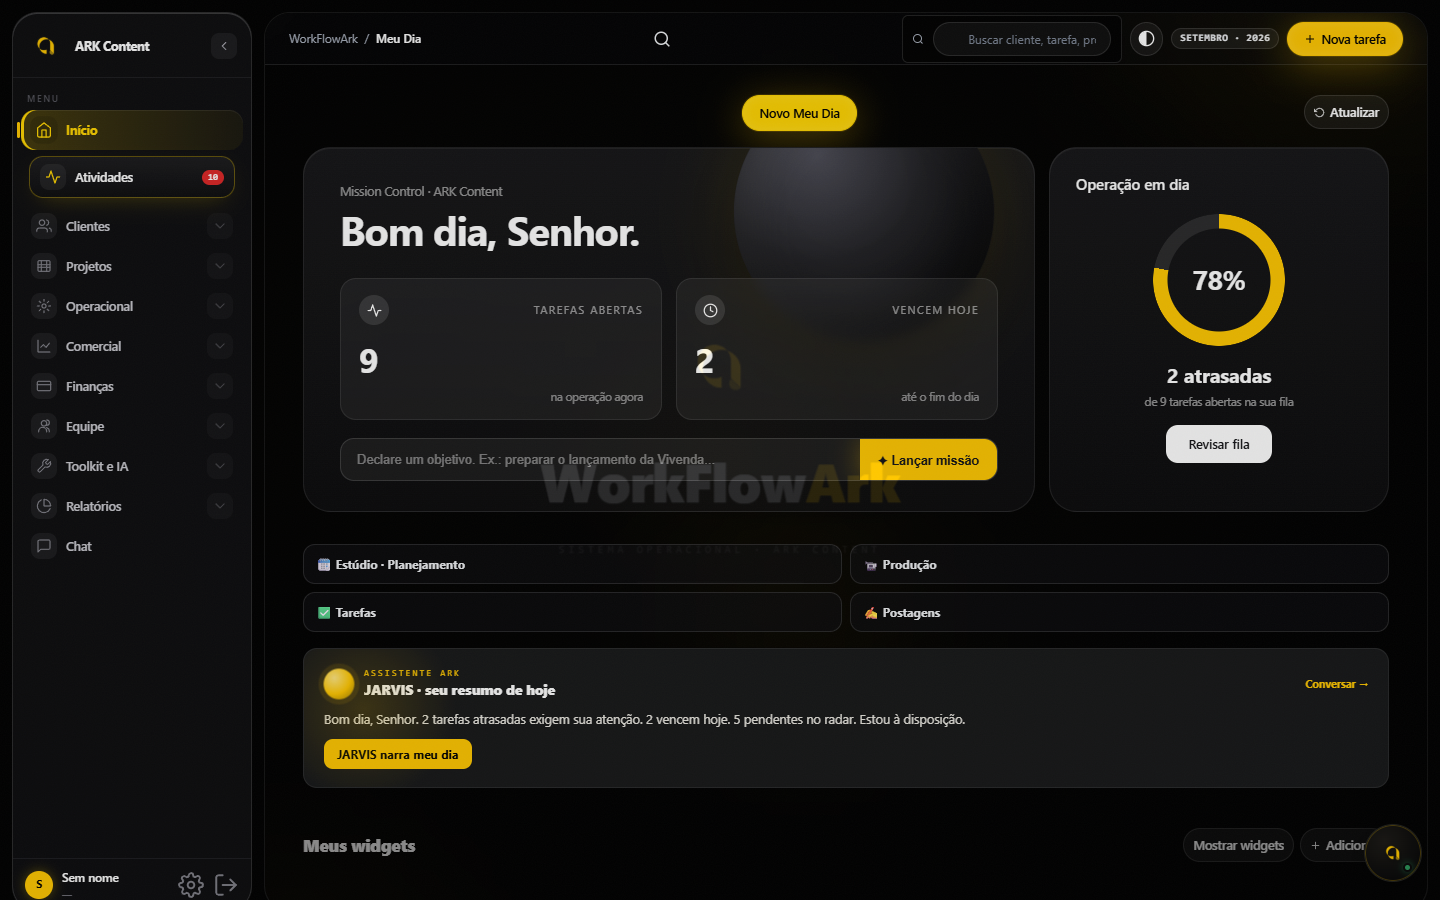
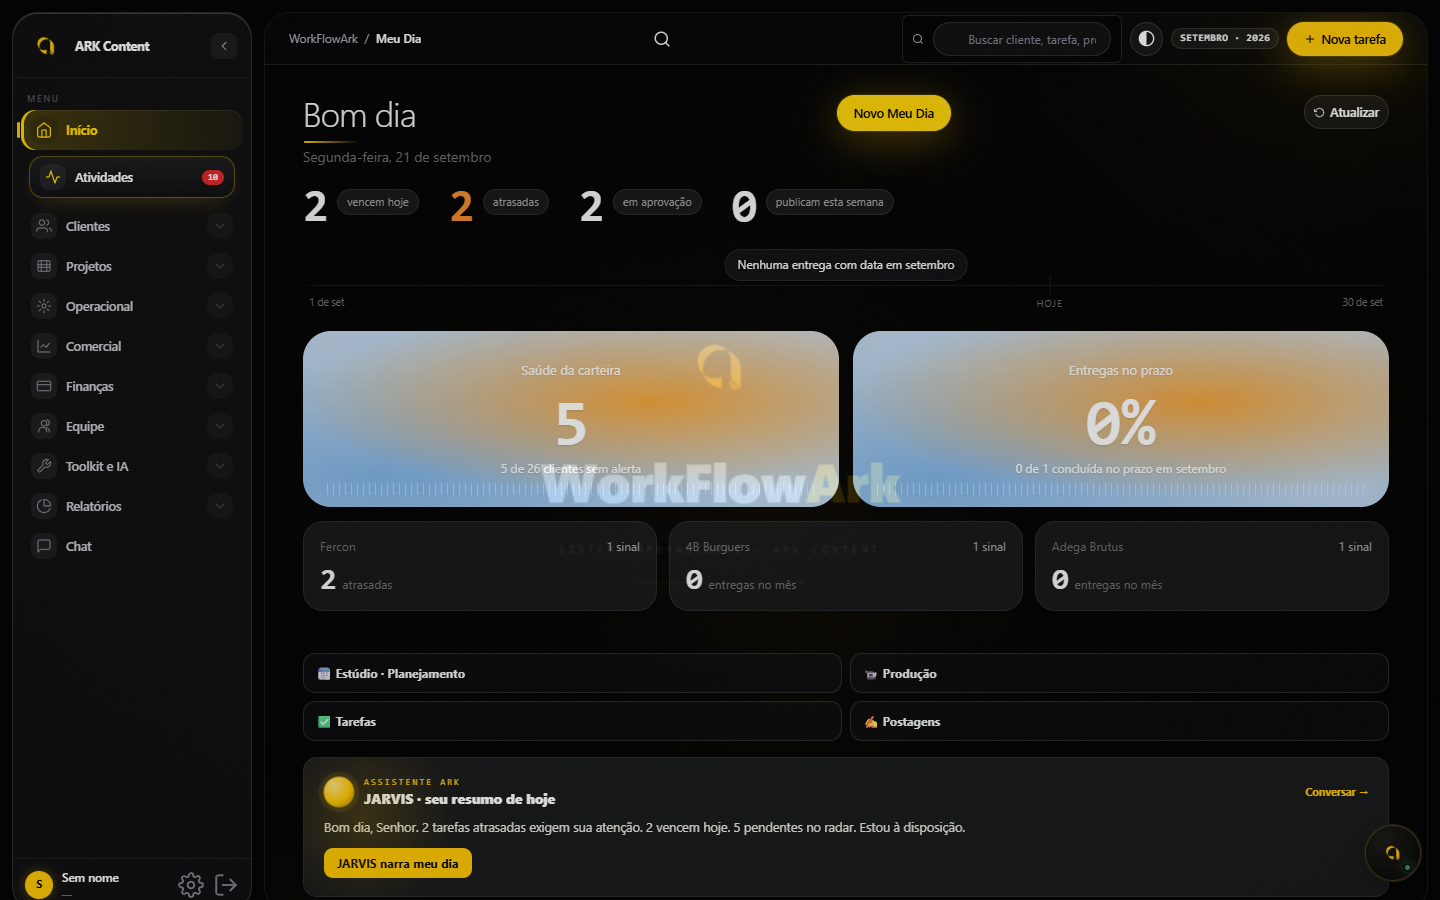
Next: Início no molde instrumento (KPIs em matriz de pontos, linha do mês, saúde da carteira, entregas no prazo, clientes em atenção), marcador NEXT 20260921j
Pele renomeada para 20260921b, fonte Doto só no /next, herói antigo escondido e saudação de volta. Prova em deploy/prova-next-inicio.mjs (claro e escuro, 1440 e 390); harness antigo e Plano de captações da outra sessão preservados.

diff --git a/public/workflowark-next-20260921b.js b/public/workflowark-next-20260921b.js
@@ -662,4 +662,127 @@
     };
     window.renderProducao = function () { orig(); try { plano(); } catch (e) { console.warn("nx producao", e); } };
   })();
+
+  /* Início no molde "instrumento, não formulário" (doc 07, lote 1, 21/09). Bloco #nx-inicio
+     depois do cabeçalho do Meu Dia: KPIs em matriz de pontos, linha do mês, dois cartões
+     aurora (saúde da carteira, entregas no prazo) e três clientes que pedem atenção. Os
+     números vêm de NX_CALC.inicio (workflowark-next-calc-<data>.js, testado em Node). Só
+     repinta quando os números mudam, como o md-kpis do legado. Nada é criado, só lido. */
+  (function () {
+    var orig = window.renderMeuDia;
+    if (typeof orig !== "function" || typeof NX_CALC === "undefined") return;
+    var SIG = "";
+    function editorialLista() {
+      try { var a = JSON.parse(localStorage.getItem("wfa-editorial") || "[]"); return Array.isArray(a) ? a : []; } catch (e) { return []; }
+    }
+    function nomeMembro() {
+      return (typeof WFA_MEMBER !== "undefined" && WFA_MEMBER && WFA_MEMBER.full_name) || "";
+    }
+    function nav(id) {
+      var el = document.querySelector('[data-nav="' + id + '"]');
+      if (el) el.click();
+      return !!el;
+    }
+    window.nxIrTarefas = function () { nav("tarefas"); };
+    window.nxIrClientes = function () { nav("lista-clientes") || nav("cliente"); };
+    window.nxIrCliente = function (id) {
+      if (!nav("cliente")) return;
+      setTimeout(function () {
+        var sel = document.getElementById("cli-area-sel");
+        if (sel) sel.value = id;
+        if (typeof cliAreaSelect === "function") cliAreaSelect(id);
+      }, 80);
+    };
+    function mesCurto(iso) {
+      return new Date(iso + "T12:00:00").toLocaleDateString("pt-BR", { day: "numeric", month: "short" }).replace(".", "");
+    }
+    function mesLongo(iso) {
+      return new Date(iso + "T12:00:00").toLocaleDateString("pt-BR", { month: "long" });
+    }
+    function kpi(n, rotulo, alerta, acao) {
+      return '<button type="button" class="nxi-kpi' + (alerta && n ? " alerta" : "") + '" onclick="' + acao + '"><span class="n">' + n + '</span><span class="l">' + rotulo + "</span></button>";
+    }
+    function linhaMes(r, H) {
+      var y = +H.slice(0, 4), m = +H.slice(5, 7);
+      var dim = new Date(y, m, 0).getDate();
+      var pos = function (d) { return ((+d.slice(8, 10) - 1) / (dim - 1)) * 100; };
+      var porDia = {};
+      r.linha.forEach(function (p) { (porDia[p.dia] = porDia[p.dia] || []).push(p); });
+      var pontos = Object.keys(porDia).map(function (d) {
+        var l = porDia[d];
+        var cor = l.some(function (p) { return p.cor === "alerta"; }) ? "alerta" : l.every(function (p) { return p.cor === "ok"; }) ? "ok" : l.some(function (p) { return p.cor === "andamento"; }) ? "andamento" : "planejado";
+        var t = l.map(function (p) { return p.titulo; }).join(" · ");
+        var id = (l.find(function (p) { return p.id; }) || {}).id;
+        return '<span class="d ' + cor + '" style="left:' + pos(d).toFixed(2) + '%" title="' + esc(brData(d) + ": " + t) + '"' + (id ? ' onclick="openTaskDetail(\'' + esc(id) + "')\"" : "") + "></span>";
+      }).join("");
+      var pub = r.linha.filter(function (p) { return p.cor === "ok"; }).length;
+      var flag = r.linha.length
+        ? r.linha.length + " entrega" + (r.linha.length === 1 ? "" : "s") + " em " + mesLongo(H) + " · " + pub + " publicada" + (pub === 1 ? "" : "s")
+        : "Nenhuma entrega com data em " + mesLongo(H);
+      return '<div class="nxi-tl"><div class="line"></div>' + pontos +
+        '<span class="hoje" style="left:' + pos(H).toFixed(2) + '%"></span>' +
+        '<span class="m1">' + mesCurto(H.slice(0, 8) + "01") + '</span><span class="m2">' + mesCurto(H.slice(0, 8) + pad(dim)) + "</span>" +
+        '<div class="flag">' + flag + "</div></div>";
+    }
+    function aurora(classe, titulo, numero, sub, acao) {
+      /* data-aura-keep em cada filho: o normalizador AURA escurece por elemento, não por subárvore */
+      return '<button type="button" class="nxi-aurora ' + classe + '" data-aura-keep' + (acao ? ' onclick="' + acao + '"' : "") + '><div class="t" data-aura-keep>' + titulo + '</div><div class="n" data-aura-keep>' + numero + '</div><div class="s" data-aura-keep>' + sub + '</div>' + (classe === "vazio" ? "" : '<div class="bars" data-aura-keep></div>') + "</button>";
+    }
+    function render() {
+      var pg = document.getElementById("page-dashboard");
+      if (!pg || typeof state === "undefined") return;
+      var box = document.getElementById("nx-inicio");
+      if (!box) {
+        box = document.createElement("div");
+        box.id = "nx-inicio";
+        box.className = "nxi-in";
+        var head = pg.querySelector(".page-head");
+        if (head) head.insertAdjacentElement("afterend", box);
+        else pg.insertAdjacentElement("afterbegin", box);
+      }
+      var H = typeof hojeSP === "function" ? hojeSP() : hoje();
+      var r = NX_CALC.inicio({
+        tarefas: state.tarefas || [],
+        clientes: typeof CLIENTES !== "undefined" ? CLIENTES : [],
+        editorial: editorialLista(),
+        hoje: H,
+        nome: nomeMembro(),
+      });
+      var sig = JSON.stringify([H, r.kpis, r.saude.verdes, r.saude.total, r.prazo, r.linha, r.atencao]);
+      if (sig === SIG) return;
+      SIG = sig;
+      var s = r.saude, p = r.prazo;
+      var html =
+        '<div class="nxi-kpis">' +
+        kpi(r.kpis.hoje, "vencem hoje", false, "nxIrTarefas()") +
+        kpi(r.kpis.atrasadas, r.kpis.atrasadas === 1 ? "atrasada" : "atrasadas", true, "nxIrTarefas()") +
+        kpi(r.kpis.aprovacao, "em aprovação", false, "nxIrTarefas()") +
+        kpi(r.kpis.publicamSemana, "publicam esta semana", false, "nxIrTarefas()") +
+        "</div>" +
+        linhaMes(r, H) +
+        '<div class="nxi-aur">' +
+        (s.total
+          ? aurora(s.verdes / s.total >= 0.7 ? "bom" : "atencao", "Saúde da carteira", s.verdes, s.verdes + " de " + s.total + " cliente" + (s.total === 1 ? "" : "s") + " sem alerta", "nxIrClientes()")
+          : aurora("vazio", "Saúde da carteira", "sem dados", "nenhum cliente ativo na carteira")) +
+        (p.pct === null
+          ? aurora("vazio", "Entregas no prazo", "sem dados", "nenhuma entrega concluída com prazo em " + mesLongo(H))
+          : aurora(p.pct >= 80 ? "bom" : "atencao", "Entregas no prazo", p.pct + "%", p.ok + " de " + p.total + " concluída" + (p.total === 1 ? "" : "s") + " no prazo em " + mesLongo(H), "nxIrTarefas()")) +
+        "</div>" +
+        '<div class="nxi-minis">' +
+        (r.atencao.length
+          ? r.atencao.map(function (c) {
+              var semEntrega = c.rotulo === "sem entrega no mês";
+              return '<button type="button" class="nxi-mini" onclick="nxIrCliente(\'' + esc(c.id) + '\')"><div class="l"><span>' + esc(c.nm) + "</span><i>" + c.sinais + " sinal" + (c.sinais === 1 ? "" : "is") + '</i></div><div class="n">' + (semEntrega ? "0" : c.n) + "<small>" + (semEntrega ? "entregas no mês" : esc(c.rotulo)) + "</small></div></button>";
+            }).join("")
+          : '<div class="nxi-mini tudo"><div class="l"><span>Carteira</span></div><div class="n">' + s.total + "<small>cliente" + (s.total === 1 ? "" : "s") + " sem alerta</small></div></div>") +
+        "</div>";
+      box.innerHTML = html;
+    }
+    window.renderMeuDia = function () {
+      orig.apply(this, arguments);
+      try { render(); } catch (e) { console.warn("nx inicio", e); }
+    };
+    setInterval(function () { try { render(); } catch (e) {} }, 60000);
+    try { render(); } catch (e) { console.warn("nx inicio", e); }
+  })();
 })();

diff --git a/public/workflowark-next-20260921b.css b/public/workflowark-next-20260921b.css
@@ -120,3 +120,60 @@ body.aura-light .nxp-bar{background:rgba(0,0,0,.08)}
 .nxp-geral{background:linear-gradient(180deg,#141416,#0a0a0b);border:1px solid rgba(255,255,255,.08);border-radius:14px;padding:12px 14px}
 body.aura-light .nxp-geral{background:#fff;border-color:rgba(0,0,0,.08)}
 .nxp-gl{display:flex;justify-content:space-between;font-size:12.5px;color:var(--mute);margin-bottom:8px}.nxp-gl b{color:var(--ink)}
+
+/* ---- Início no molde "instrumento, não formulário" (doc 07, lote 1, 21/09) ----
+   Tokens tirados das referências (painel claro Superpower / painel escuro de frota),
+   acento na cor da marca. O herói antigo (.aura-hero-row) sai só no /next. */
+body.next{--nxi-card:#141416;--nxi-ink:#F5F5F7;--nxi-ink2:#A1A1A6;--nxi-ink3:#6E6E73;--nxi-line:rgba(255,255,255,.08);--nxi-acc:#ffd400;--nxi-alert:#F08A2E;--nxi-ok:#3DDC84;--nxi-r:28px;--nxi-num:Doto,ui-monospace,"JetBrains Mono",monospace}
+body.next.aura-light{--nxi-card:#F4F4F5;--nxi-ink:#111114;--nxi-ink2:#5C5C62;--nxi-ink3:#8A8A8F;--nxi-line:rgba(0,0,0,.06)}
+body.next .aura-hero-row{display:none!important}
+/* a saudação volta (o legado a escondia porque o herói a repetia) */
+body.next.aura-dark #page-dashboard #md-greet,body.next.aura-light #page-dashboard #md-greet{display:block;font-weight:300;font-size:34px;letter-spacing:-.02em;color:var(--nxi-ink)}
+body.next.aura-dark #page-dashboard #md-sub,body.next.aura-light #page-dashboard #md-sub{display:block;color:var(--nxi-ink3)}
+#nx-inicio{margin:4px 0 26px;color:var(--nxi-ink)}
+.nxi-in{animation:nxiIn .45s cubic-bezier(.25,.1,.25,1) both}
+@keyframes nxiIn{from{opacity:0}to{opacity:1}}
+@media(prefers-reduced-motion:reduce){.nxi-in{animation:none}}
+/* KPIs: o número é o herói, rótulo pequeno em pílula */
+.nxi-kpis{display:flex;gap:30px;flex-wrap:wrap;margin:0 0 20px}
+.nxi-kpi{display:flex;align-items:flex-start;gap:8px;cursor:pointer;background:none;border:0;padding:0;color:var(--nxi-ink);font:inherit;text-align:left}
+.nxi-kpi .n{font-family:var(--nxi-num);font-weight:700;font-size:46px;line-height:1;letter-spacing:.02em;font-variant-numeric:tabular-nums}
+.nxi-kpi .l{font-size:11px;background:var(--nxi-card);border:1px solid var(--nxi-line);border-radius:999px;padding:4px 9px;color:var(--nxi-ink2);margin-top:6px;white-space:nowrap}
+.nxi-kpi.alerta .n{color:var(--nxi-alert)}
+.nxi-kpi:hover .l{color:var(--nxi-ink)}
+/* linha do mês: um ponto por entrega, marcador de hoje, etiqueta flutuante */
+.nxi-tl{position:relative;height:62px;margin:0 6px 20px}
+.nxi-tl .line{position:absolute;left:0;right:0;top:36px;height:1px;background:var(--nxi-line)}
+.nxi-tl .d{position:absolute;top:32px;width:9px;height:9px;border-radius:50%;transform:translateX(-50%);cursor:pointer}
+.nxi-tl .d.ok{background:var(--nxi-ok)}.nxi-tl .d.andamento{background:var(--nxi-acc)}.nxi-tl .d.planejado{background:var(--nxi-ink3)}.nxi-tl .d.alerta{background:var(--nxi-alert)}
+.nxi-tl .hoje{position:absolute;top:26px;width:1px;height:21px;background:var(--nxi-ink);transform:translateX(-50%)}
+.nxi-tl .hoje::after{content:"hoje";position:absolute;top:22px;left:50%;transform:translateX(-50%);font-size:9.5px;letter-spacing:.12em;text-transform:uppercase;color:var(--nxi-ink3)}
+.nxi-tl .m1,.nxi-tl .m2{position:absolute;top:46px;font-size:10.5px;color:var(--nxi-ink3)}.nxi-tl .m1{left:0}.nxi-tl .m2{right:0}
+.nxi-tl .flag{position:absolute;top:0;left:50%;transform:translateX(-50%);background:rgba(20,20,22,.72);backdrop-filter:blur(10px);-webkit-backdrop-filter:blur(10px);border:1px solid var(--nxi-line);border-radius:999px;padding:6px 12px;font-size:12px;color:var(--nxi-ink);white-space:nowrap;box-shadow:0 6px 24px rgba(0,0,0,.18)}
+body.next.aura-light .nxi-tl .flag{background:rgba(255,255,255,.78)}
+/* dois cartões aurora: só os dois números que importam */
+.nxi-aur{display:grid;grid-template-columns:1fr 1fr;gap:14px;margin-bottom:14px}
+.nxi-aurora{border-radius:var(--nxi-r);padding:22px;color:#fff;min-height:176px;position:relative;overflow:hidden;text-align:center;cursor:pointer;border:0;font:inherit;text-shadow:0 1px 2px rgba(0,0,0,.14);width:100%}
+.nxi-aurora.bom{background:radial-gradient(120% 90% at 30% 25%,#F2A33A 0%,transparent 55%),radial-gradient(120% 100% at 70% 90%,#3FBF5A 0%,#7dc98a 60%,transparent 100%),#8fd69b}
+.nxi-aurora.atencao{background:radial-gradient(110% 90% at 65% 40%,#F2A33A 0%,transparent 60%),radial-gradient(120% 110% at 15% 85%,#7FB3E6 0%,#b9d3ec 60%,transparent 100%),#c9d9ea}
+.nxi-aurora.vazio{background:var(--nxi-card);color:var(--nxi-ink3);border:1px solid var(--nxi-line);text-shadow:none;cursor:default}
+.nxi-aurora .t{font-size:13px;opacity:.94}
+.nxi-aurora .n{font-family:var(--nxi-num);font-weight:700;font-size:64px;line-height:1.1;margin:8px 0 2px}
+.nxi-aurora.vazio .n{font-family:inherit;font-weight:300;font-size:28px;margin:22px 0 6px}
+.nxi-aurora .s{font-size:12px;opacity:.94}
+.nxi-aurora .bars{position:absolute;left:24px;right:24px;bottom:12px;height:12px;background:repeating-linear-gradient(90deg,rgba(255,255,255,.55) 0 1px,transparent 1px 6px);opacity:.7}
+/* três clientes que pedem atenção */
+.nxi-minis{display:grid;grid-template-columns:repeat(3,1fr);gap:12px}
+.nxi-mini{background:var(--nxi-card);border:1px solid var(--nxi-line);border-radius:20px;padding:16px;cursor:pointer;text-align:left;color:var(--nxi-ink);font:inherit;min-height:88px;width:100%}
+.nxi-mini:hover{border-color:rgba(255,212,0,.5)}
+.nxi-mini .l{font-size:12px;color:var(--nxi-ink3);display:flex;justify-content:space-between;gap:8px}
+.nxi-mini .l i{font-style:normal;color:var(--nxi-ink2)}
+.nxi-mini .n{font-family:var(--nxi-num);font-weight:700;font-size:30px;margin-top:8px;line-height:1}
+.nxi-mini .n small{font-family:Inter,system-ui,sans-serif;font-weight:400;font-size:12px;color:var(--nxi-ink3);margin-left:6px}
+.nxi-mini.tudo{cursor:default;border-style:dashed}
+@media(max-width:900px){
+  .nxi-kpis{gap:18px 22px}.nxi-kpi .n{font-size:38px}
+  .nxi-aur{grid-template-columns:1fr}.nxi-aurora{min-height:150px}.nxi-aurora .n{font-size:54px}
+  .nxi-minis{grid-template-columns:1fr}
+  .nxi-tl .flag{font-size:11px;padding:5px 10px}
+}

diff --git a/public/workflowark-next.html b/public/workflowark-next.html
@@ -46,12 +46,12 @@
 <link rel="preconnect" href="https://fonts.googleapis.com">
 <link rel="preconnect" href="https://fonts.gstatic.com" crossorigin>
 <link rel="preconnect" href="https://cdn.jsdelivr.net">
-<link href="https://fonts.googleapis.com/css2?family=Inter:wght@400;500;600;700;800&family=Sora:wght@400;500;600;700;800&family=JetBrains+Mono:wght@500;600&display=swap" rel="stylesheet">
+<link href="https://fonts.googleapis.com/css2?family=Inter:wght@400;500;600;700;800&family=Sora:wght@400;500;600;700;800&family=JetBrains+Mono:wght@500;600&family=Doto:wght@700&display=swap" rel="stylesheet">
 <script src="https://cdn.jsdelivr.net/npm/animejs@4/lib/anime.iife.min.js" defer></script>
 <link rel="stylesheet" href="workflowark-20260915a.css">
-<link rel="stylesheet" href="workflowark-next-20260921a.css">
+<link rel="stylesheet" href="workflowark-next-20260921b.css">
 </head>
-<!-- build NEXT 20260921i -->
+<!-- build NEXT 20260921j -->
 <body class="aura-dark next">
 <script>/* tema salvo por usuário: aplica ANTES do primeiro paint (padrão = escuro) */
 try{if(localStorage.getItem('wfa-theme')==='light'){document.body.classList.remove('aura-dark');document.body.classList.add('aura-light');}}catch(e){}</script>
@@ -4309,6 +4309,7 @@ function wfaSetTheme(t){
 <div class="toast" id="toast"><svg viewBox="0 0 24 24" fill="none" stroke="currentColor" stroke-width="2.5" stroke-linecap="round" stroke-linejoin="round"><polyline points="20 6 9 17 4 12"/></svg><span id="toast-msg">Pronto</span></div>
 
 <script src="workflowark-app-20260921a.js"></script>
-<script src="workflowark-next-20260921a.js" defer></script>
+<script src="workflowark-next-calc-20260921b.js"></script>
+<script src="workflowark-next-20260921b.js" defer></script>
 </body>
 </html>
